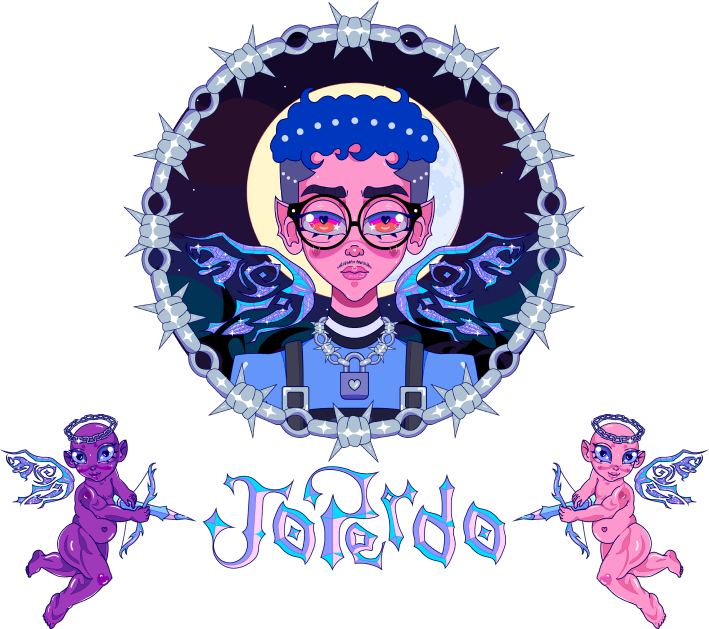
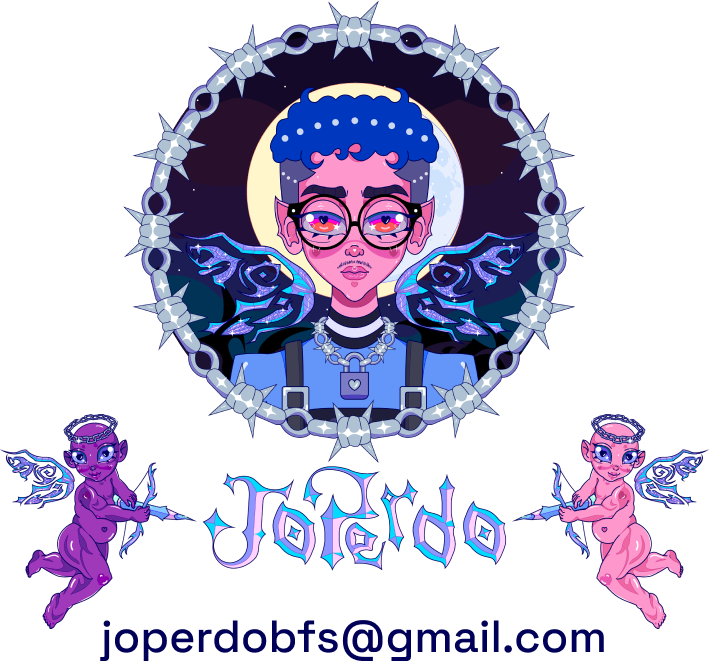
commit 0.4

diff --git a/index.html b/index.html
@@ -48,20 +48,20 @@
             <div class="about-content">
                 <div class="janela">
                     <img src="assets/selfjanela.png">
-                 </div>
-            <div class="sobre">
-            <div class="nomecompleto">
-                <img src="assets/joaopedrobrito.png" width="780px">
+                </div>
+                <div class="sobre">
+                    <div class="nomecompleto">
+                        <img src="assets/joaopedrobrito.png" width="780px">
+                    </div>
+                    <div class="get-to-know-me">
+                        <p>Recifense com 21 anos, comecei minha carreira como Designer Gráfico, mas ao iniciar meus estudos em ADS decidi focar nas áreas de UX/UI Design e Front-end.</p>
+                        <p>Sempre uso da criatividade para deixar cada projeto com sua identidade própria, procurando soluções, buscando aprender sempre mais e crescer profissionalmente.</p>
+                    </div>
+                    <div class="seta"> 
+                        <img src="assets/seta.png" width="80px">
+                    </div>
+                </div>
             </div>
-            <div class="get-to-know-me">
-                <p>Recifense com 21 anos, comecei minha carreira como Designer Gráfico, mas ao iniciar meus estudos em ADS decidir focar nas áreas de UX/UI Design e Front-end.</p>
-                <p>Sempre uso da criatividade para deixar cada projeto com sua identidade própria, procurando soluções, buscando aprender sempre mais e crescer profissionalmente.</p>
-            </div>
-            <div class= "seta"> 
-                <img src="assets/seta.png" width="80px">
-            </div>
-            </div>
-        </div>
         </section>
 
         <section id="skills" class="section-skills">
@@ -167,17 +167,19 @@
             <h1>Fale comigo</h1>
             <div class="contato">
             <img src="assets/joperdo.png" width="700px">
-            <h3>joperdobfs@gmail.com</h3>
             </div>
             <div class="icons">
             <a href="https://www.behance.net/joperdo" target="_blank">
-            <img src="assets/be.png" width="70px">
-            </a>
-            <a href="https://www.instagram.com/joperdo/" target="_blank">
-            <img src="assets/insta.png" width="50px">
+            <img src="assets/be.png" width="80px">
             </a>
             <a href="https://www.linkedin.com/in/jo%C3%A3o-pedro-brito-371874257/" target="_blank">
-            <img src="assets/in.png" width="50px">
+            <img src="assets/in.png" width="60px">
+            </a>
+            <a href="https://github.com/joperdo" target="_blank">
+            <img src="assets/github.png" width="60px">
+            </a>
+            <a href="https://www.instagram.com/joperdo/" target="_blank">
+            <img src="assets/insta.png" width="60px">
             </a>
             </div>
         </section>

diff --git a/style.css b/style.css
@@ -17,6 +17,7 @@
     display: grid;
     grid-template-rows: auto 1fr 200px;
   }
+
   
   header{
     background-color: #000059;
@@ -29,7 +30,6 @@
     padding: 0% 10%;
   }
   
-    
   .header-profile {
     display: flex;
     align-items:center;
@@ -61,14 +61,11 @@
   nav ul li:hover {
     color: #00DBFF;
   }
-  
-  .header-profile> h3 {
-    font-size: 20px;
-  }
-  
-  
-  .section-home> .btn {
-    width: 20%;
+
+  main{
+    background-color: #DFE3EF;
+    width: 1920px;
+    margin: auto;
   }
   
   .section-home {
@@ -101,22 +98,28 @@
     justify-content: right;
   }
   
-  .section-home> .btn {
-    padding: 1.4rem 5rem;
-  }
-  
-  .btn:hover {
-    transform: translateY(-5px);
-  }
-  
   .section-about {
-    background-color: #DFE3EF;
     padding: 10% 10%;
     display:block;
   }
 
+  .about-content {
+    display: grid;
+    column-gap: 1px;
+    grid-template-columns: 1fr 1fr;
+  }
+
+  .janela img {
+    display: flex;
+    align-items: left;
+    justify-content: left;
+  }
+
   .sobre> .nomecompleto {
     padding-top: 40px;
+    display: flex;
+    align-items: center;
+    justify-content: center;
   }
   
   .get-to-know-me> p {
@@ -135,12 +138,6 @@
     align-items: right;
     justify-content: right;
     padding-top: 40px;
-  }
-  
-  .about-content {
-    display: grid;
-    column-gap: 1px;
-    grid-template-columns: 1fr 1fr;
   }
 
   .section-skills {
@@ -203,7 +200,6 @@
   }
   
   .section-project {
-    background-color: #DFE3EF;
     padding: 8% 10%;
     display:block;
   }
@@ -307,33 +303,15 @@
     margin-top: 5%;
   }
 
-  .contato {
-    position: relative;
-  }
-  
-  .contato> h3{
-    color: #000059;
-    font-family: 'Space Grotesk', sans-serif;
-    font-size: 40px;
-    display: flex;
-    align-items: center;
-    justify-content: center;
-    margin-bottom: 25px;
-    position: absolute;
-    top: 100%;
-    left: 50%;
-    transform: translate(-50%, -50%);
-  }
-
   .icons {
     grid-template-columns: 1fr 1fr 1fr;
-    margin-top: 50px;
+    margin-top: 20px;
   }
 
   .icons img {
-    margin-right: 20px;
-    margin-left: 20px;
-    margin-bottom: 10px;
+    margin-right: 15px;
+    margin-left: 15px;
+    margin-bottom: 25px;
   }
 
   .footer-bottom {
@@ -353,5 +331,3 @@
     color: #000059;
     font-family: 'Space Grotesk', sans-serif;
   }
-
-  
